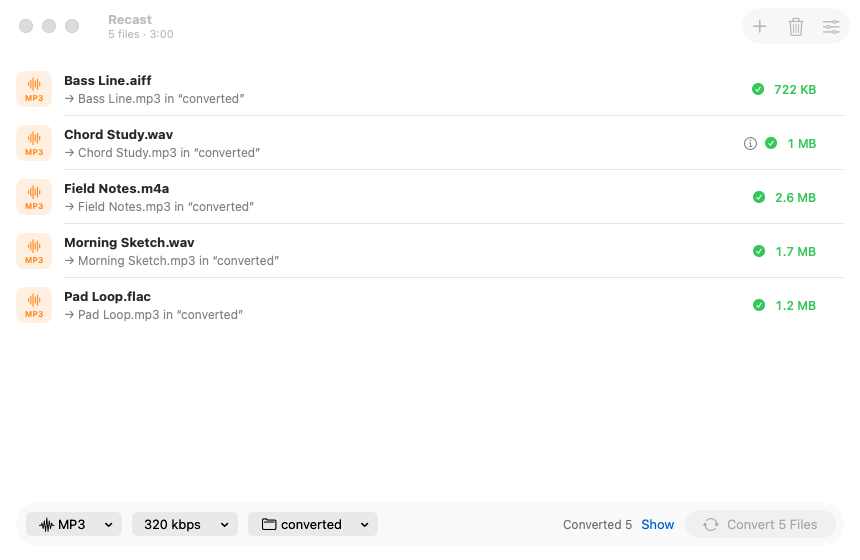
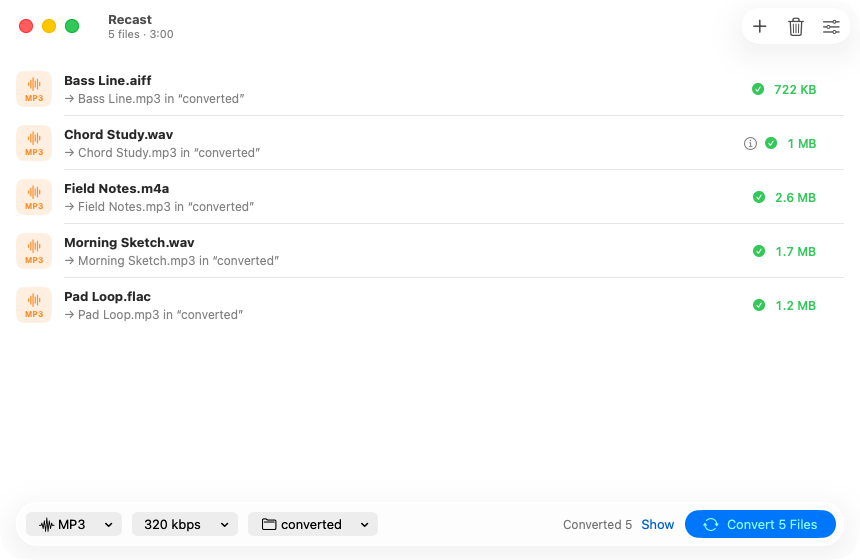
Show dark screenshots by default in the README, light ones for GitHub's light theme
Snapshot mode now also captures the settings view in dark.

diff --git a/Sources/Recast/Snapshot.swift b/Sources/Recast/Snapshot.swift
@@ -43,6 +43,10 @@ enum Snapshot {
             model.settings.folderPath = folder.appendingPathComponent("converted").path
             try? await Task.sleep(for: .milliseconds(600))
             capture(folder, "4-settings-flac")
+            NSApp.appearance = NSAppearance(named: .darkAqua)
+            try? await Task.sleep(for: .milliseconds(600))
+            capture(folder, "4-settings-flac-dark")
+            NSApp.appearance = NSAppearance(named: .aqua)
             model.settings.format = .aac
             model.settings.aacMode = .vbr
             model.settings.volume = .peak

diff --git a/README.md b/README.md
@@ -16,11 +16,18 @@ A macOS app (SwiftUI, Liquid Glass) for converting audio files. Drop files or wh
   file next to its destination and is moved into place when finished; a name that would replace an original
   or another file in the batch gets a number ("Song 2.mp3").
 
-![Recast with five files and the settings panel open](docs/screenshots/settings.png)
+<picture>
+  <source media="(prefers-color-scheme: light)" srcset="docs/screenshots/settings.png">
+  <img src="docs/screenshots/settings-dark.png" alt="Recast with five files and the settings panel open">
+</picture>
 
-<img src="docs/screenshots/converted.png" alt="Five files converted to MP3" width="72%">
+<picture>
+  <source media="(prefers-color-scheme: light)" srcset="docs/screenshots/converted.png">
+  <img src="docs/screenshots/converted-dark.png" alt="Five files converted to MP3" width="72%">
+</picture>
 
-*Screenshots made with Recast's snapshot mode and generated test tones (see Tests).*
+*Screenshots made with Recast's snapshot mode and generated test tones (see Tests); GitHub shows the light or dark
+set to match your theme.*
 
 Recast's own code is open source under the GNU General Public License, version 3 or later (`LICENSE`).
 Copyright (C) 2026 omso. The bundled encoders keep their own licences: LAME 3.100 is under the GNU LGPL
